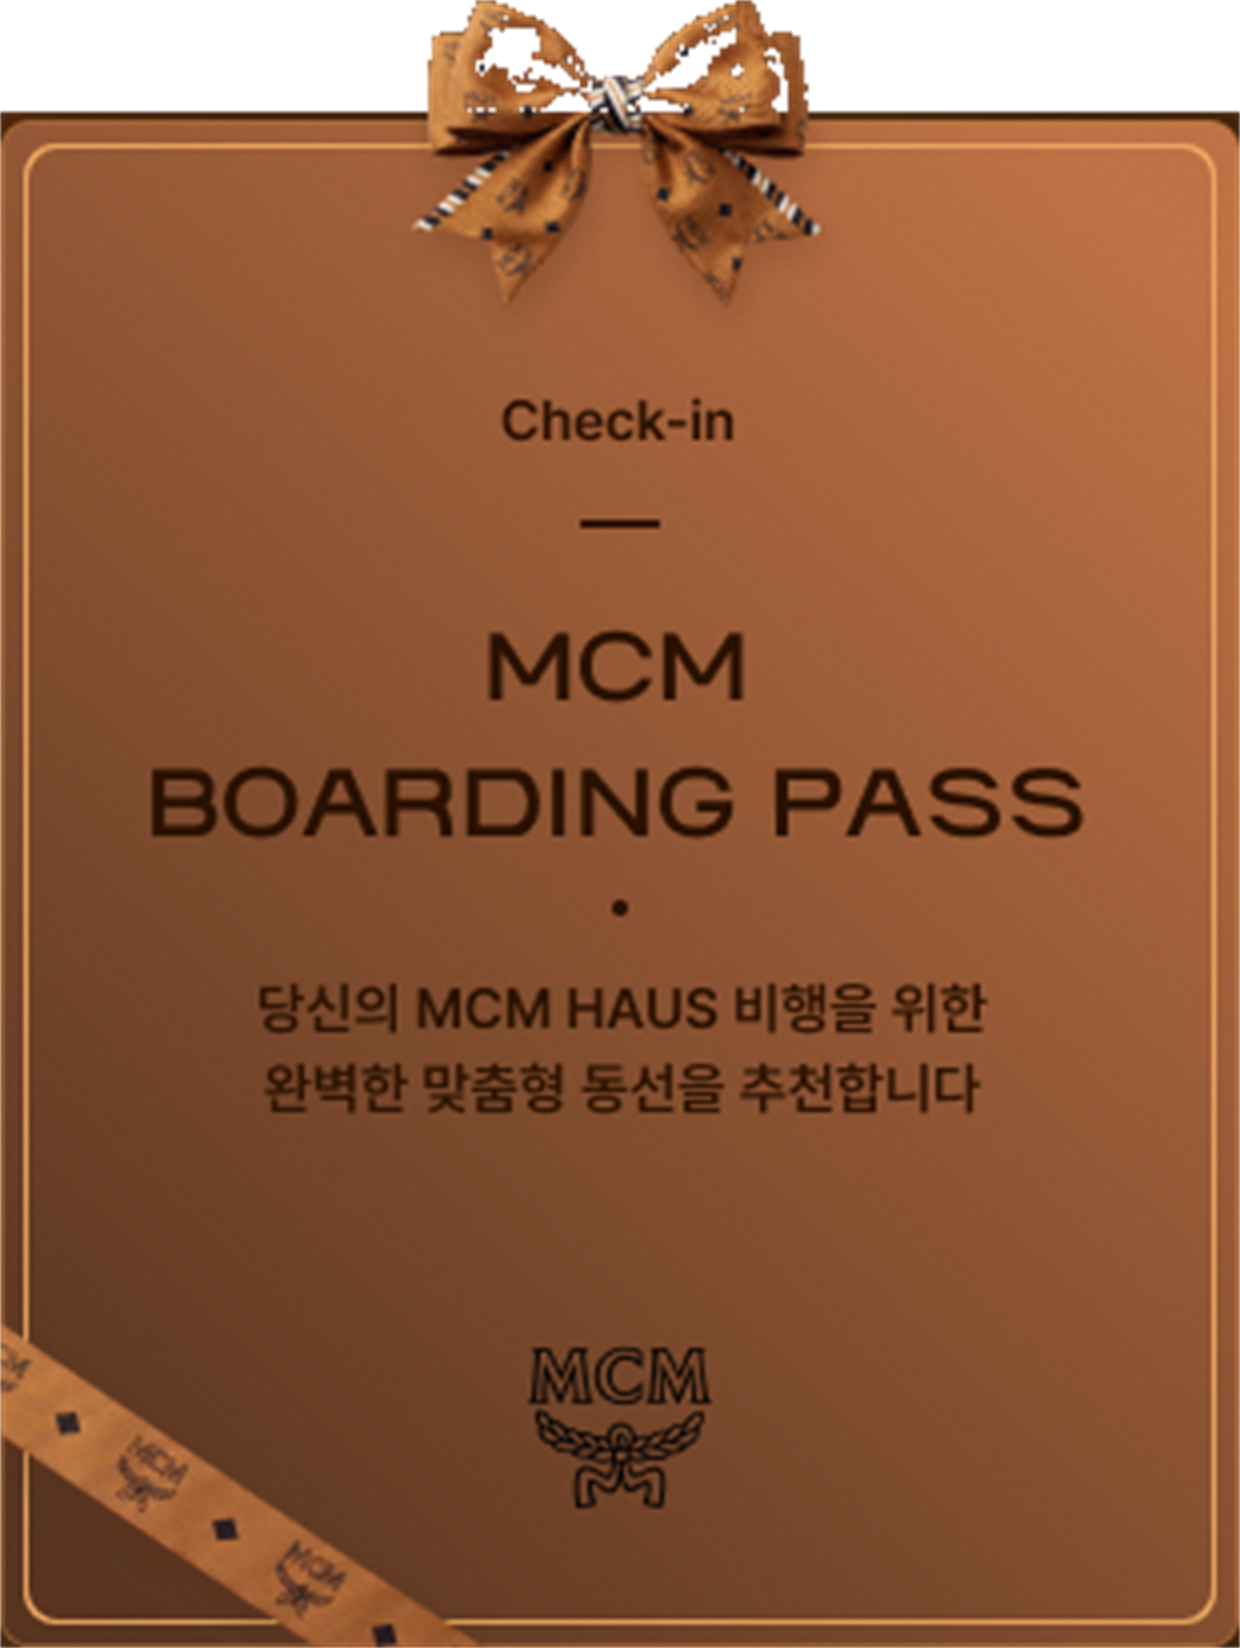
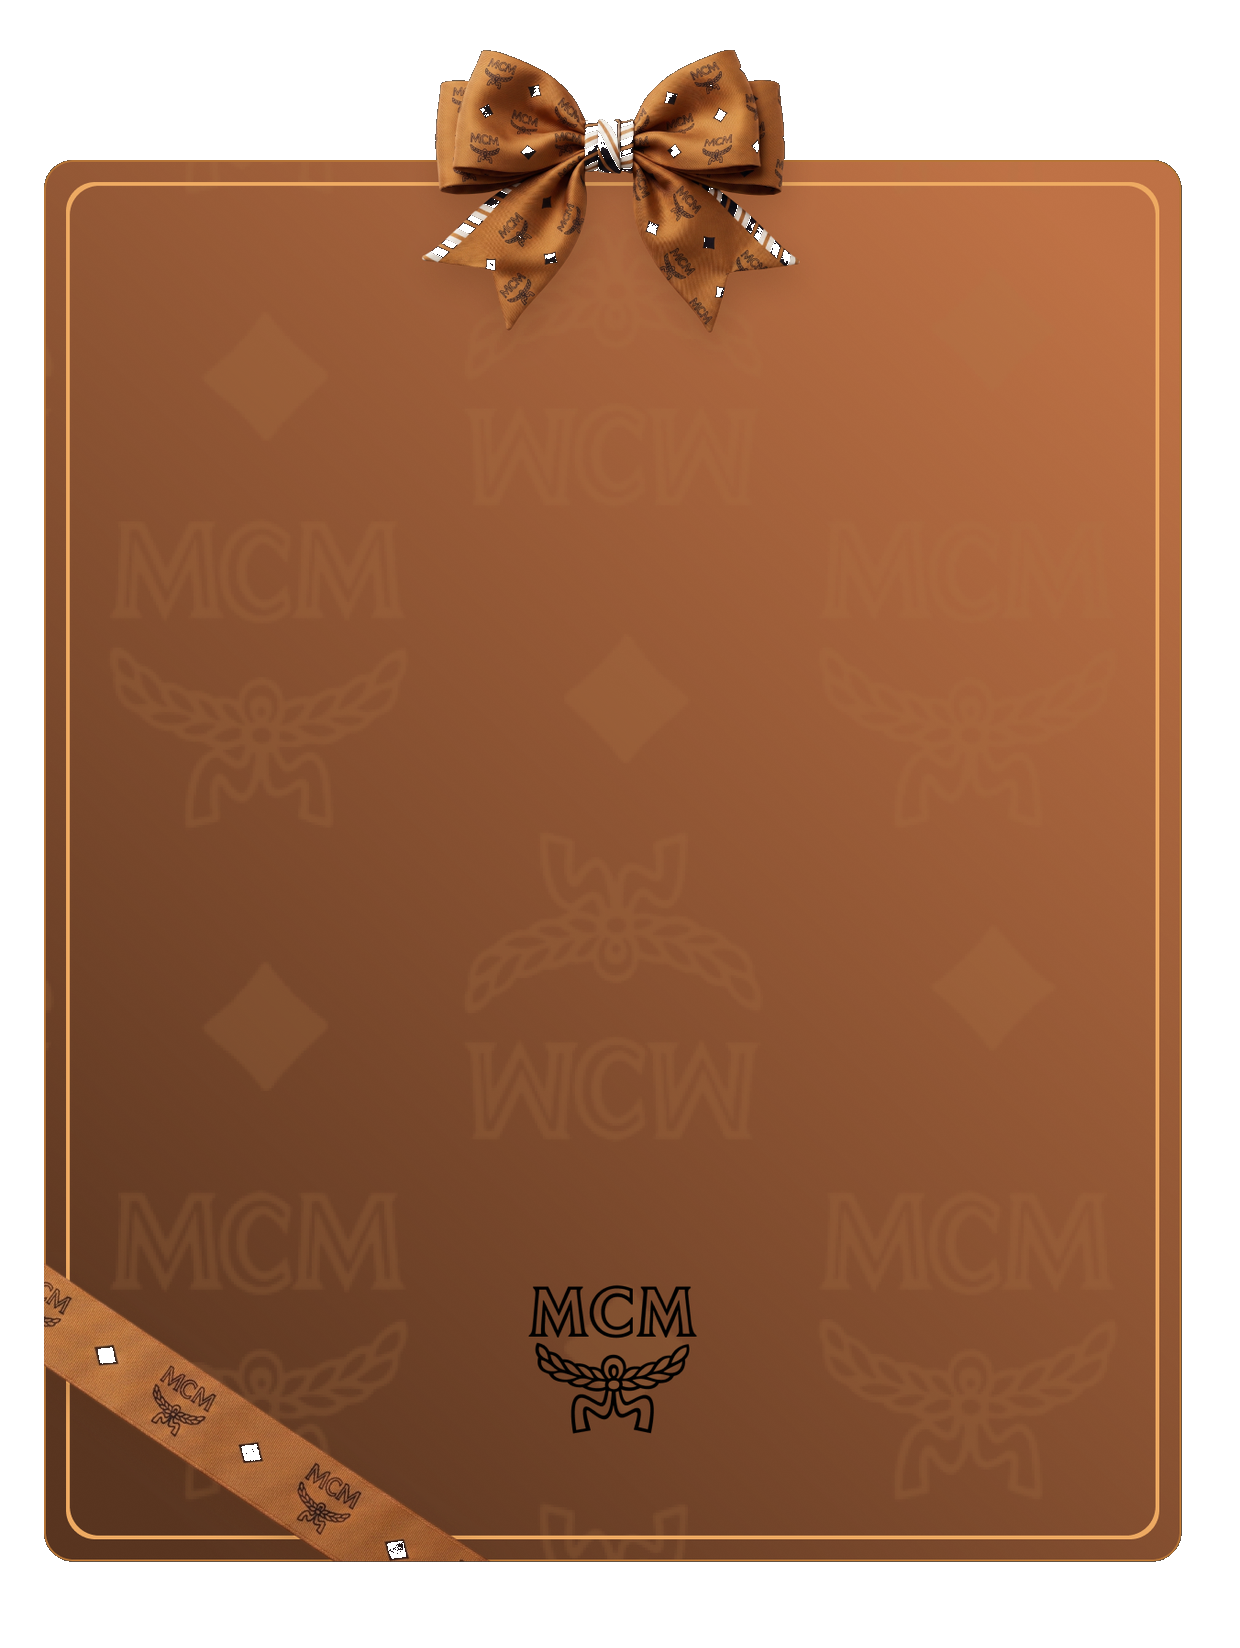
fix: 인트로 패스 카드를 그래픽 PNG와 DOM 카피로 분리한다
PM 디자인 피드백에 맞춰 흐릿한 래스터 글자를 React 텍스트로 올리고, Figma 에셋을 4x로 구워 카드 크기·배경을 보정한다.

diff --git a/src/pages/boarding-pass/intro/IntroPage.module.scss b/src/pages/boarding-pass/intro/IntroPage.module.scss
@@ -1,4 +1,4 @@
-/* (22) 인트로 — 패스 카드 정적 이미지 + Next 버튼(기존 스타일 유지) */
+/* (22) 인트로 — 패스 카드 PNG(보우·리본) + DOM 카피 + Next 버튼 */
 
 .page {
   display: flex;
@@ -56,26 +56,107 @@
   transform: translateY(1.25rem);
 }
 
+/* 시각 박스 310×412 → 20% 확대 = 372×494.4 */
 .cardWrap {
   position: relative;
   z-index: 1;
-  display: flex;
-  width: 100%;
+  width: min(23.25rem, 100%);
   flex: 0 0 auto;
-  align-items: center;
-  justify-content: center;
+  aspect-ratio: 310 / 412;
+  background: transparent;
 }
 
-/* Figma 시각 박스 310×412 (티켓 310×382 + 보우 overhang) */
 .passCard {
   display: block;
-  width: min(19.375rem, 100%);
-  height: auto;
-  aspect-ratio: 310 / 412;
+  width: 100%;
+  height: 100%;
   object-fit: contain;
   object-position: center;
   user-select: none;
   pointer-events: none;
+}
+
+/* 카피 좌표는 카드 본문(보우 30/412 아래). %로 두어 카드 스케일에 맞춤 */
+.copy {
+  position: absolute;
+  top: calc(30 / 412 * 100%);
+  left: 0;
+  width: 100%;
+  height: calc(382 / 412 * 100%);
+  overflow: visible;
+  color: #2b1100;
+  text-align: center;
+  pointer-events: none;
+}
+
+.checkIn,
+.title,
+.body {
+  position: absolute;
+  left: 50%;
+  margin: 0;
+  transform: translateX(-50%);
+  white-space: nowrap;
+}
+
+.checkIn {
+  top: calc(67 / 382 * 100%);
+  font-size: 0.875rem;
+  font-weight: 600;
+  line-height: 1rem;
+}
+
+.rule {
+  position: absolute;
+  top: calc(99.5 / 382 * 100%);
+  left: 50%;
+  width: 1.25rem;
+  height: 0.125rem;
+  border-radius: 6.25rem;
+  background: #2b1100;
+  transform: translateX(-50%);
+}
+
+.title {
+  top: calc(119 / 382 * 100%);
+  font-family: var(--mcm-font-brand);
+  font-size: 1.875rem;
+  font-weight: 400;
+  line-height: 1.5rem;
+}
+
+.title span {
+  display: block;
+}
+
+.title span + span {
+  margin-top: 0.625rem;
+}
+
+.dot {
+  position: absolute;
+  top: calc(195 / 382 * 100%);
+  left: 50%;
+  width: 0.25rem;
+  height: 0.25rem;
+  border-radius: 50%;
+  background: #2b1100;
+  transform: translateX(-50%);
+}
+
+.body {
+  top: calc(217 / 382 * 100%);
+  font-size: 0.875rem;
+  font-weight: 600;
+  line-height: 0.625rem;
+}
+
+.body span {
+  display: block;
+}
+
+.body span + span {
+  margin-top: 0.625rem;
 }
 
 .footerFade {

diff --git a/src/pages/boarding-pass/intro/IntroPage.jsx b/src/pages/boarding-pass/intro/IntroPage.jsx
@@ -9,7 +9,7 @@ import styles from './IntroPage.module.scss'
 
 /**
  * (22) 보딩패스 인트로.
- * 패스 카드는 Figma 정적 이미지(보우·리본·카피 포함). Next만 기존 버튼 스타일 유지.
+ * 패스 카드 그래픽은 PNG, 카피는 DOM(Figma 472:4800). Next만 기존 버튼 스타일 유지.
  * Next → (24) 설문. 상태바·홈 인디케이터는 구현하지 않는다.
  */
 export function Component() {
@@ -29,12 +29,20 @@ export function Component() {
 
         <div className={styles.cluster}>
           <div className={styles.cardWrap}>
-            <img
-              src={passCard}
-              alt="MCM BOARDING PASS — Check-in. 당신의 MCM HAUS 비행을 위한 완벽한 맞춤형 동선을 추천합니다."
-              className={styles.passCard}
-              draggable={false}
-            />
+            <img src={passCard} alt="" className={styles.passCard} draggable={false} />
+            <div className={styles.copy}>
+              <p className={styles.checkIn}>Check-in</p>
+              <span className={styles.rule} aria-hidden="true" />
+              <p className={styles.title}>
+                <span>MCM</span>
+                <span>BOARDING PASS</span>
+              </p>
+              <span className={styles.dot} aria-hidden="true" />
+              <p className={styles.body}>
+                <span>당신의 MCM HAUS 비행을 위한</span>
+                <span>완벽한 맞춤형 동선을 추천합니다</span>
+              </p>
+            </div>
           </div>
 
           <button

diff --git a/src/pages/boarding-pass/intro/IntroPage.test.jsx b/src/pages/boarding-pass/intro/IntroPage.test.jsx
@@ -34,6 +34,14 @@ describe('IntroPage', () => {
     expect(screen.getByRole('main')).toHaveClass(styles.page)
   })
 
+  it('패스 카드 카피를 DOM 텍스트로 렌더한다', () => {
+    renderIntro(['/boarding-pass/intro'])
+
+    expect(screen.getByText('Check-in')).toBeInTheDocument()
+    expect(screen.getByText('BOARDING PASS')).toBeInTheDocument()
+    expect(screen.getByText('당신의 MCM HAUS 비행을 위한')).toBeInTheDocument()
+  })
+
   it('닫기는 이전 설문이 아니라 보딩패스 랜딩으로 이동한다', () => {
     const router = renderIntro()
 

diff --git a/src/shared/assets/boarding-pass/assets-manifest.md b/src/shared/assets/boarding-pass/assets-manifest.md
@@ -23,7 +23,7 @@
 
 | 키                | 경로                                                  | 원본 nodeId        | 타입 | 사용처                                          |
 | ----------------- | ----------------------------------------------------- | ------------------ | ---- | ----------------------------------------------- |
-| intro-pass-card   | src/shared/assets/boarding-pass/intro/pass-card.png   | 472:4800+4811+4812 | png  | (22) 인트로 패스 카드 정적 합성(보우·리본·카피) |
+| intro-pass-card   | src/shared/assets/boarding-pass/intro/pass-card.png   | 3012:414+426+427   | png  | (22) 인트로 패스 카드 그래픽만(보우·리본, 카피 제외). Figma `EcjMcxEJlMBy1c4A1aCKD8` 4x |
 | intro-ticket-logo | src/shared/assets/boarding-pass/intro/ticket-logo.png | 472:4805           | png  | 티켓/완료 등에서 쓰는 MCM 로렐 엠블럼           |
 
 ## landing/
